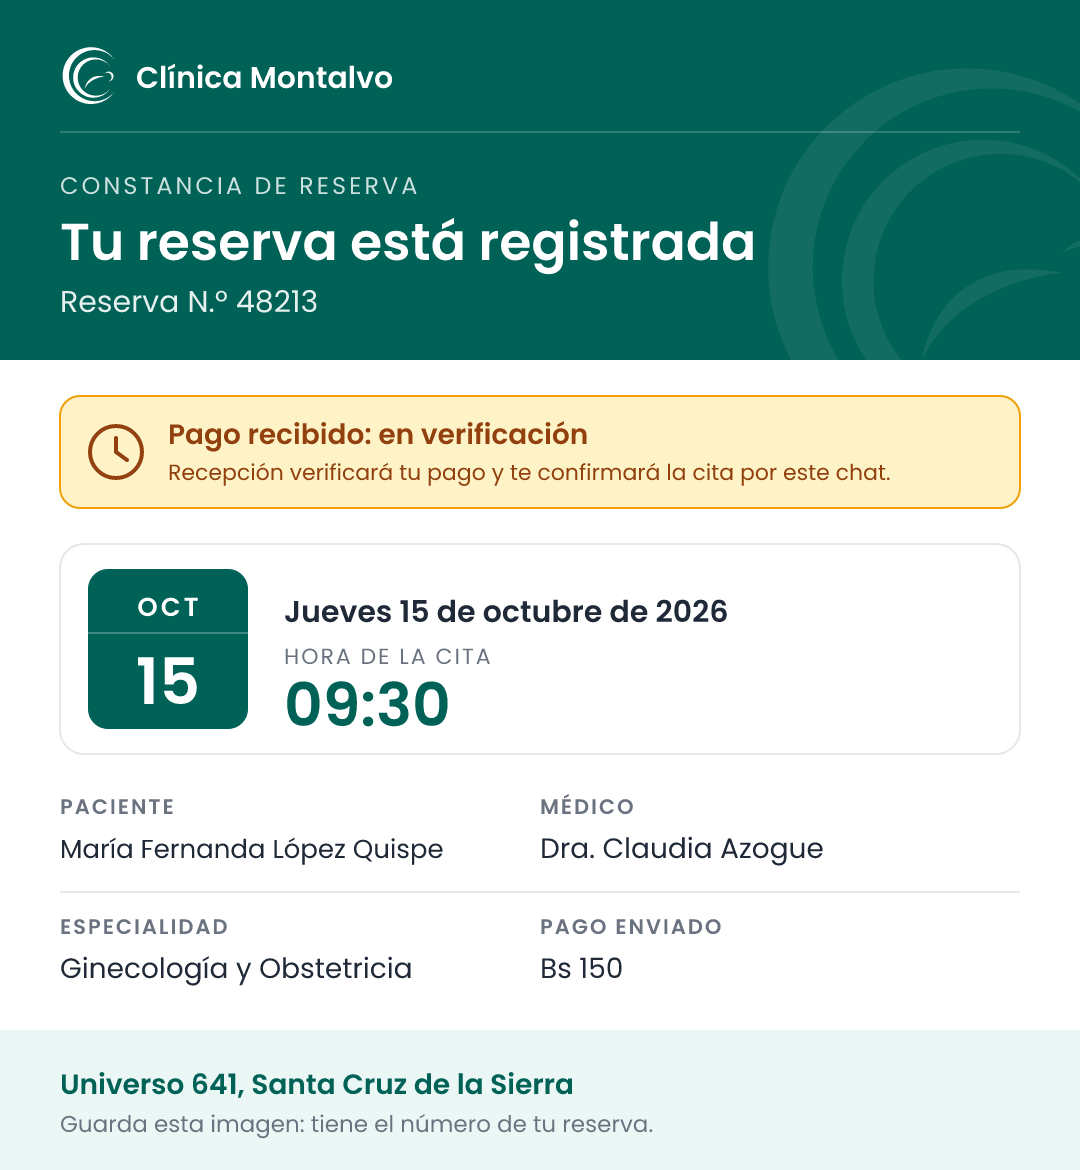
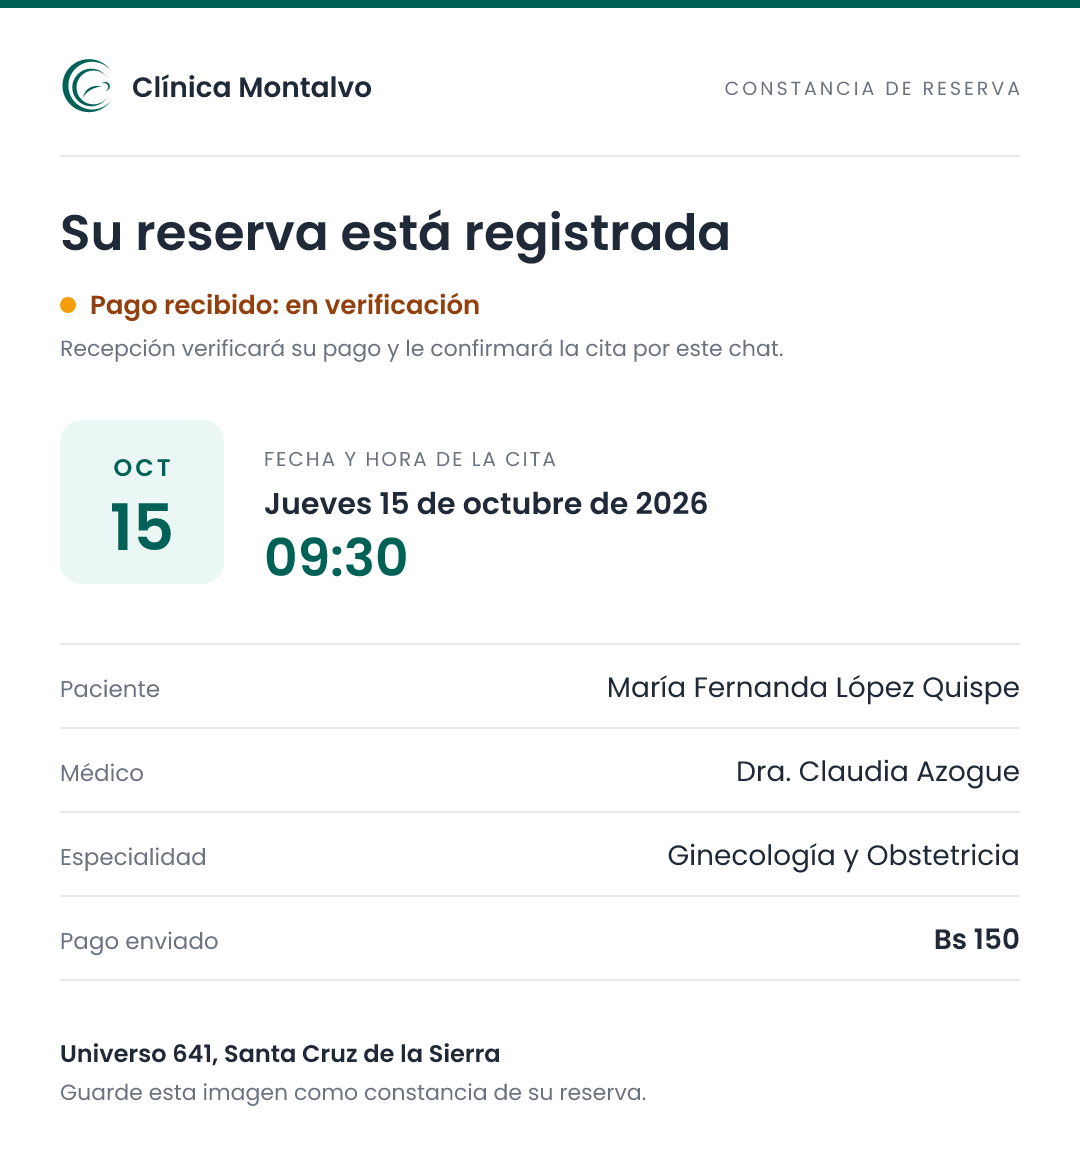
feat(reservas): constancia de reserva como hoja blanca de comprobante
La imagen que recibe la paciente al registrarse su comprobante deja la franja
verde y la caja ámbar: logo arriba, el estado «Pago recibido: en verificación»
en una línea, el día y la hora, y los datos en filas. Lo que no se sabe
(especialidad, monto) no ocupa fila y la imagen se acorta. Sigue sin número de
reserva y nunca dice «confirmada». El horario y la agenda del médico no cambian.

VERSION_DISENO_CONSTANCIA pasa a 3. Docs y muestra actualizadas.

diff --git a/src/modules/conversaciones/constancia-reserva.ts b/src/modules/conversaciones/constancia-reserva.ts
@@ -12,9 +12,8 @@
  * Sin carnet, teléfono ni nada que no sea de la cita: la imagen se guarda y se
  * reenvía.
  */
-import {
-  abrirSvg, ajustar, ALTO_MARCA, ANCHO_IMAGEN, antetitulo, cabecera, COLOR, escaparXml, fechaLarga, MARGEN, partesDeFecha, pie,
-} from '../asistente/marca-imagen';
+import { abrirSvg, ajustar, ANCHO_IMAGEN, COLOR, escaparXml, fechaLarga, logo, MARGEN, partesDeFecha } from '../asistente/marca-imagen';
+import { NOMBRE_CLINICA } from '../asistente/prompt-sistema';
 import { textoBolivianos } from '../asistente/horario-imagen';
 import { UBICACION_CLINICA } from './ubicacion-clinica';
 
@@ -32,15 +31,18 @@ export interface DatosConstancia {
   readonly montoBs: number | null;
 }
 
-/** El diseño de la imagen: sube cuando cambia el dibujo, para no reusar un PNG viejo. */
-export const VERSION_DISENO_CONSTANCIA = 2;
+/**
+ * El diseño de la imagen: sube cuando cambia el dibujo, para no reusar un PNG viejo.
+ * 3 (28/10/2026): hoja blanca de comprobante, sin la franja verde ni la caja ámbar.
+ */
+export const VERSION_DISENO_CONSTANCIA = 3;
 
 export const ESTADO_CONSTANCIA = 'Pago recibido: en verificación';
 const AVISO_CONSTANCIA = 'Recepción verificará su pago y le confirmará la cita por este chat.';
 
-const CABECERA = 360;
-const ALTO = 1170;
-const PIE = 140;
+/** Dónde empieza la tabla de datos y cuánto mide cada fila. */
+const Y_FILAS = 644;
+const ALTO_FILA = 84;
 
 const mayuscula = (t: string) => t.charAt(0).toUpperCase() + t.slice(1);
 
@@ -57,70 +59,72 @@ export function textoConstancia(d: DatosConstancia): string {
   ].join('\n');
 }
 
-/** Un dato con su etiqueta encima, en media columna. */
-function dato(x: number, y: number, etiqueta: string, valor: string): string {
-  const v = ajustar(valor, 28, 24, 430);
+/** Una fila de la tabla: la etiqueta a la izquierda y el valor a la derecha, con una raya encima. */
+function fila(y: number, etiqueta: string, valor: string, destacado = false): string {
+  /* Lo que queda a la derecha de la etiqueta más larga («Especialidad»). */
+  const v = ajustar(valor, 28, 22, 640);
   return [
-    `<text x="${x}" y="${y}" font-size="21" font-weight="600" fill="${COLOR.apagado}" letter-spacing="2">${escaparXml(etiqueta.toUpperCase())}</text>`,
-    `<text x="${x}" y="${y + 44}" font-size="${v.tamano}" fill="${COLOR.texto}">${escaparXml(v.texto)}</text>`,
+    `<line x1="${MARGEN}" y1="${y}" x2="${ANCHO_IMAGEN - MARGEN}" y2="${y}" stroke="${COLOR.borde}" stroke-width="2"/>`,
+    `<text x="${MARGEN}" y="${y + 53}" font-size="23" fill="${COLOR.apagado}">${escaparXml(etiqueta)}</text>`,
+    `<text x="${ANCHO_IMAGEN - MARGEN}" y="${y + 53}" font-size="${v.tamano}"${destacado ? ' font-weight="600"' : ''} fill="${COLOR.texto}" text-anchor="end">${escaparXml(v.texto)}</text>`,
   ].join('');
 }
 
-/** El reloj del aviso de estado, dibujado: la Poppins no trae íconos. */
-const reloj = (cx: number, cy: number) => [
-  `<circle cx="${cx}" cy="${cy}" r="26" fill="none" stroke="${COLOR.ambarTexto}" stroke-width="4"/>`,
-  `<path d="M${cx} ${cy - 14} V${cy} L${cx + 11} ${cy + 8}" fill="none" stroke="${COLOR.ambarTexto}" stroke-width="4" stroke-linecap="round" stroke-linejoin="round"/>`,
-].join('');
-
+/**
+ * Una hoja blanca, como un comprobante impreso: el logo arriba, el estado en
+ * una línea, el día y la hora, y los datos en filas. El verde queda en el logo,
+ * el día y la hora; el ámbar, solo en el punto del estado.
+ */
 export function svgDeConstancia(d: DatosConstancia): string {
   const fecha = partesDeFecha(d.fecha);
   const derecha = ANCHO_IMAGEN - MARGEN;
 
-  /* 1. El estado, en ámbar: es lo primero que tiene que entender. */
-  const yEstado = CABECERA + 36;
-  const estado = [
-    `<rect x="${MARGEN}" y="${yEstado}" width="${derecha - MARGEN}" height="112" rx="20" fill="${COLOR.ambarFondo}" stroke="${COLOR.ambarBorde}" stroke-width="2"/>`,
-    reloj(MARGEN + 56, yEstado + 56),
-    `<text x="${MARGEN + 108}" y="${yEstado + 48}" font-size="28" font-weight="600" fill="${COLOR.ambarTexto}">${escaparXml(ESTADO_CONSTANCIA)}</text>`,
-    `<text x="${MARGEN + 108}" y="${yEstado + 84}" font-size="22" fill="${COLOR.ambarTexto}">${escaparXml(AVISO_CONSTANCIA)}</text>`,
+  /* 1. De quién es y qué es. */
+  const marca = [
+    `<rect width="100%" height="8" fill="${COLOR.primario}"/>`,
+    logo(MARGEN, 58, 56, COLOR.primario),
+    `<text x="${MARGEN + 72}" y="97" font-size="28" font-weight="600" fill="${COLOR.texto}">${NOMBRE_CLINICA}</text>`,
+    `<text x="${derecha}" y="95" font-size="19" fill="${COLOR.apagado}" text-anchor="end" letter-spacing="3">CONSTANCIA DE RESERVA</text>`,
+    `<line x1="${MARGEN}" y1="156" x2="${derecha}" y2="156" stroke="${COLOR.borde}" stroke-width="2"/>`,
   ].join('');
 
-  /* 2. Cuándo: la hoja de calendario y la hora en grande. */
-  const yCita = yEstado + 148;
+  /* 2. El título y el estado: lo primero que tiene que entender. */
+  const titulo = [
+    `<text x="${MARGEN}" y="250" font-size="50" font-weight="600" fill="${COLOR.texto}">Su reserva está registrada</text>`,
+    `<circle cx="${MARGEN + 8}" cy="305" r="8" fill="${COLOR.ambarBorde}"/>`,
+    `<text x="${MARGEN + 30}" y="314" font-size="26" font-weight="600" fill="${COLOR.ambarTexto}">${escaparXml(ESTADO_CONSTANCIA)}</text>`,
+    `<text x="${MARGEN}" y="356" font-size="22" fill="${COLOR.apagado}">${escaparXml(AVISO_CONSTANCIA)}</text>`,
+  ].join('');
+
+  /* 3. Cuándo: la hoja de calendario, en verde tenue, y la hora en grande. */
+  const yCita = 420;
   const cita = [
-    `<rect x="${MARGEN}" y="${yCita}" width="${derecha - MARGEN}" height="210" rx="24" fill="#FFFFFF" stroke="${COLOR.borde}" stroke-width="2"/>`,
-    `<rect x="${MARGEN + 28}" y="${yCita + 25}" width="160" height="160" rx="20" fill="${COLOR.primario}"/>`,
-    `<path d="M${MARGEN + 28} ${yCita + 89} H${MARGEN + 188}" stroke="#FFFFFF" stroke-opacity="0.25" stroke-width="2"/>`,
-    `<text x="${MARGEN + 108}" y="${yCita + 72}" font-size="26" font-weight="600" fill="#FFFFFF" text-anchor="middle" letter-spacing="3">${escaparXml((fecha?.mes ?? '').slice(0, 3).toUpperCase())}</text>`,
-    `<text x="${MARGEN + 108}" y="${yCita + 160}" font-size="64" font-weight="600" fill="#FFFFFF" text-anchor="middle">${fecha?.dia ?? ''}</text>`,
-    `<text x="${MARGEN + 224}" y="${yCita + 78}" font-size="30" font-weight="600" fill="${COLOR.texto}">${escaparXml(mayuscula(fechaLarga(d.fecha)))}</text>`,
-    `<text x="${MARGEN + 224}" y="${yCita + 120}" font-size="22" fill="${COLOR.apagado}" letter-spacing="2">HORA DE LA CITA</text>`,
-    `<text x="${MARGEN + 224}" y="${yCita + 182}" font-size="60" font-weight="600" fill="${COLOR.primario}">${escaparXml(d.hora)}</text>`,
+    `<rect x="${MARGEN}" y="${yCita}" width="164" height="164" rx="22" fill="${COLOR.fondoSuave}"/>`,
+    `<text x="${MARGEN + 82}" y="${yCita + 56}" font-size="24" font-weight="600" fill="${COLOR.primario}" text-anchor="middle" letter-spacing="3">${escaparXml((fecha?.mes ?? '').slice(0, 3).toUpperCase())}</text>`,
+    `<text x="${MARGEN + 82}" y="${yCita + 130}" font-size="64" font-weight="600" fill="${COLOR.primario}" text-anchor="middle">${fecha?.dia ?? ''}</text>`,
+    `<text x="${MARGEN + 204}" y="${yCita + 46}" font-size="20" fill="${COLOR.apagado}" letter-spacing="2">FECHA Y HORA DE LA CITA</text>`,
+    `<text x="${MARGEN + 204}" y="${yCita + 94}" font-size="30" font-weight="600" fill="${COLOR.texto}">${escaparXml(mayuscula(fechaLarga(d.fecha)))}</text>`,
+    `<text x="${MARGEN + 204}" y="${yCita + 156}" font-size="52" font-weight="600" fill="${COLOR.primario}">${escaparXml(d.hora)}</text>`,
   ].join('');
 
-  /* 3. Con quién y por cuánto, en dos columnas. */
-  const yDatos = yCita + 270;
-  const columna2 = MARGEN + 480;
-  const datos = [
-    dato(MARGEN, yDatos, 'Paciente', d.paciente),
-    dato(columna2, yDatos, 'Médico', d.medico),
-    dato(MARGEN, yDatos + 120, 'Especialidad', d.especialidad ?? '—'),
-    dato(columna2, yDatos + 120, 'Pago enviado', d.montoBs ? textoBolivianos(d.montoBs) : '—'),
-    `<line x1="${MARGEN}" y1="${yDatos + 78}" x2="${derecha}" y2="${yDatos + 78}" stroke="${COLOR.borde}" stroke-width="2"/>`,
+  /* 4. Con quién y por cuánto. Lo que no se sabe no ocupa una fila.
+     Sin número de reserva: no le sirve a la paciente y confundía (16/10/2026). */
+  const datos: [string, string, boolean?][] = [
+    ['Paciente', d.paciente],
+    ['Médico', d.medico],
+    ...(d.especialidad ? [['Especialidad', d.especialidad] as [string, string]] : []),
+    ...(d.montoBs ? [['Pago enviado', textoBolivianos(d.montoBs), true] as [string, string, boolean]] : []),
+  ];
+  const filas = datos.map(([etiqueta, valor, destacado], i) => fila(Y_FILAS + i * ALTO_FILA, etiqueta, valor, destacado)).join('');
+  const yFin = Y_FILAS + datos.length * ALTO_FILA;
+
+  /* 5. Dónde, y para qué sirve la imagen. */
+  const alto = yFin + 170;
+  const pie = [
+    `<line x1="${MARGEN}" y1="${yFin}" x2="${derecha}" y2="${yFin}" stroke="${COLOR.borde}" stroke-width="2"/>`,
+    `<text x="${MARGEN}" y="${yFin + 82}" font-size="24" font-weight="600" fill="${COLOR.texto}">${escaparXml(UBICACION_CLINICA.direccion)}</text>`,
+    `<text x="${MARGEN}" y="${yFin + 120}" font-size="22" fill="${COLOR.apagado}">Guarde esta imagen como constancia de su reserva.</text>`,
   ].join('');
 
-  const conMedico = ajustar(`Con ${d.medico}`, 30, 22, ANCHO_IMAGEN - 2 * MARGEN);
-  return [
-    abrirSvg(ALTO),
-    cabecera(CABECERA),
-    antetitulo('Constancia de reserva', ALTO_MARCA + 62),
-    `<text x="${MARGEN}" y="${ALTO_MARCA + 128}" font-size="52" font-weight="600" fill="#FFFFFF">Su reserva está registrada</text>`,
-    /* Sin número de reserva: no le sirve a la paciente y confundía (16/10/2026). */
-    `<text x="${MARGEN}" y="${ALTO_MARCA + 180}" font-size="${conMedico.tamano}" fill="#FFFFFF" fill-opacity="0.9">${escaparXml(conMedico.texto)}</text>`,
-    estado,
-    cita,
-    datos,
-    pie(ALTO, PIE, UBICACION_CLINICA.direccion, 'Guarde esta imagen como constancia de su reserva.'),
-    '</svg>',
-  ].join('');
+  return [abrirSvg(alto), marca, titulo, cita, filas, pie, '</svg>'].join('');
 }

diff --git a/src/modules/conversaciones/constancia-reserva.spec.ts b/src/modules/conversaciones/constancia-reserva.spec.ts
@@ -31,7 +31,7 @@ describe('la constancia de reserva', () => {
 
   it('la imagen lleva lo mismo que el texto, el logo y la dirección de la clínica', () => {
     const svg = svgDeConstancia(DATOS);
-    for (const esperado of ['Con Dra. Claudia Azogue', '>OCT<', '>15<', '09:30', 'María Fernanda López Quispe', 'Dra. Claudia Azogue', 'Bs 150', 'Clínica Montalvo', 'Universo 641']) {
+    for (const esperado of ['Su reserva está registrada', '>OCT<', '>15<', '09:30', 'María Fernanda López Quispe', 'Dra. Claudia Azogue', 'Bs 150', 'Clínica Montalvo', 'Universo 641']) {
       expect(svg).toContain(esperado);
     }
   });
@@ -47,6 +47,21 @@ describe('la constancia de reserva', () => {
   it('sin monto no inventa uno', () => {
     expect(textoConstancia({ ...DATOS, montoBs: null })).not.toContain('Pago enviado');
     expect(svgDeConstancia({ ...DATOS, montoBs: null })).not.toContain('Bs ');
+  });
+
+  it('lo que no se sabe no deja una fila vacía, y la imagen se acorta', () => {
+    const completa = svgDeConstancia(DATOS);
+    const sinDatos = svgDeConstancia({ ...DATOS, especialidad: null, montoBs: null });
+    expect(sinDatos).not.toMatch(/Especialidad|Pago enviado|—/);
+    const alto = (svg: string) => Number(/height="(\d+)"/.exec(svg)?.[1]);
+    expect(alto(sinDatos)).toBe(alto(completa) - 2 * 84);
+  });
+
+  it('un nombre muy largo se achica o se corta: no pisa la etiqueta de su fila', () => {
+    const svg = svgDeConstancia({ ...DATOS, paciente: 'María Fernanda de los Ángeles López Quispe de Gutiérrez Mamani' });
+    const tamano = Number(/font-size="(\d+)" fill="#1F2937" text-anchor="end">María/.exec(svg)?.[1]);
+    const texto = /text-anchor="end">(María[^<]*)</.exec(svg)?.[1] ?? '';
+    expect(texto.length * tamano * 0.6).toBeLessThanOrEqual(640);
   });
 
   it('un nombre con caracteres de XML no rompe ni inyecta nada en la imagen', () => {

diff --git a/docs/reservas-pago-chat.md b/docs/reservas-pago-chat.md
@@ -36,10 +36,12 @@ Menú CITA → Flow cifrado → especialidad → médico → fecha → hora y da
 ### La constancia de reserva (12/10/2026)
 
 Cuando el comprobante queda registrado en la agenda (`PAGO_REGISTRADO`), la paciente
-recibe una **constancia en imagen**: número de reserva, día y hora en grande, médico,
+recibe una **constancia en imagen**: día y hora en grande, paciente, médico,
 especialidad, lo que pagó y la dirección de la clínica, con el estado **«Pago recibido:
-en verificación»** —nunca «confirmada»: ver el párrafo siguiente—. Pie con el mismo
-resumen en texto; sin R2, sale el texto solo. [Muestra](imagenes-whatsapp/constancia-reserva.png).
+en verificación»** —nunca «confirmada»: ver el párrafo siguiente—. Sin número de reserva
+desde el 16/10. Desde el 28/10 es una hoja blanca de comprobante (logo, estado en una
+línea, datos en filas; lo que no se sabe no ocupa fila), no la franja verde del horario.
+Pie con el mismo resumen en texto; sin R2, sale el texto solo. [Muestra](imagenes-whatsapp/constancia-reserva.png).
 
 - La manda `ConstanciaReservaService` desde el trabajador de comprobantes, solo en la
   pasada que registró el pago. **Una por reserva**: `clientMessageId` estable
